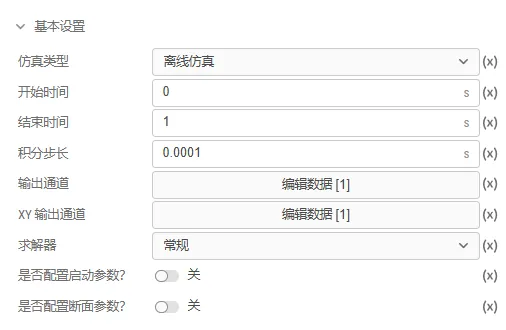
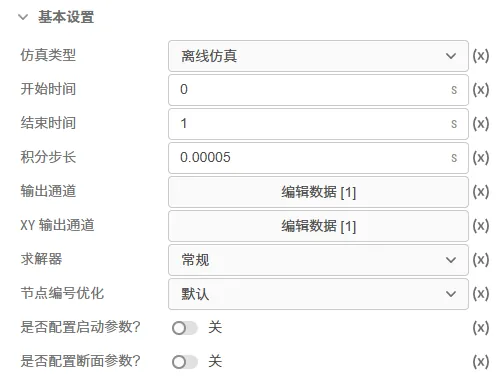
docs: 修改电磁暂态仿真配置

diff --git a/docs/documents/software/20-emtlab/50-emts/20-job-config/index.md b/docs/documents/software/20-emtlab/50-emts/20-job-config/index.md
@@ -41,12 +41,13 @@ tags:
 | 参数名 | 含义 | 说明 |
 | :--- | :--- | :--- | 
 | 仿真类型 | 电磁暂态仿真的应用类型 | 可选择**离线仿真**、**实时仿真**或**组网仿真**，默认选择**离线仿真**, 实时仿真相关内容可查看 [电磁暂态实时仿真](../../80-emts-rt/index.md) 帮助文档。**组网仿真**与**实时仿真**依赖 CloudPSS 专有硬件，公网平台暂不支持。 | 
-| 开始时间 | 电磁暂态仿真的开始时间 | 默认为 0s。在进行断面启动功能时该参数需要与断面参数进行配合选取。 |
-| 结束时间 | 电磁暂态仿真的结束时间 | 当仿真时间达到该值时仿真停止。 |
-| 积分步长 | 仿真的积分步长 | 默认为 0.00005s，即 50 微秒。积分步长越小，仿真越精确，但计算量越大，仿真耗时越大，需结合实际情况进行选取。 |
+| 开始时间 | 电磁暂态仿真的开始时间 | 单位为秒(s)，默认为 0s，仿真任务将从该设定时间开始执行时域积分。在进行[断面启动](../40-snapshot/index.md)功能时该参数需要与断面参数进行配合选取。 |
+| 结束时间 | 电磁暂态仿真的结束时间 | 单位为秒(s)，当仿真时间达到该值时仿真停止。 |
+| 积分步长 | 仿真的积分步长 | 单位为秒(s)，默认为 0.00005s，即 50 微秒。积分步长越小，仿真越精确，但计算量越大，仿真耗时越大，需结合实际情况进行选取。 |
 | 输出通道 | 电磁暂态仿真的曲线输出配置 | 配置在结果页面显示的输出曲线，包括配置分辨率（输出频率）、显示方法、通道选择等内容。更多详细内容可查看 [量测及输出系统](../30-meters-and-outputs/index.md) 帮助文档。 |
 | 求解器设置 | 求解器设置选项 | 可选择**常规**和**开关/离散事件处理增强**，默认选择**常规**。对于包含由分立开关元件构成的电力电子拓扑，可选择**开关/离散事件处理增强**，准确判断单一步长内的同步开关事件。 |
-| 是否配置启动参数 | 启动参数的开关 | 仅适用于纯交流系统，默认关闭。开启后，电磁暂态仿真可以从给定潮流断面启动（需额外配置启动参数模块）。更多启动参数说明可查看 [潮流结果写回及初始化](../../60-power-flow/30-initializing-from-power-flow-results/index.md) 帮助文档。 |
+| 节点编号优化 | 仿真拓扑解析时，节点编号方法选择 | 可选择**默认**和**稳定**，通常情况下选择**默认**。**默认**方法采用相对高效的节点编号策略，**稳定**的编号方法将在多次仿真期间提供相对固定的节点编号策略。 |
+| 是否配置启动参数 | 启动参数的开关 | 仅适用于纯交流系统，默认关闭。开启后，可以额外配置**启动参数模块**，在启动参数模块中可启用**预启动流程**，其作用是将[同步发电机](../../110-component-library/10-basic/10-electrical/40-three-phase-ac-components/120-SyncGeneratorRouter/index.md#使用说明)等交流设备的初始化放入预启动流程中，使电磁暂态仿真可以直接给定潮流断面启动，更多启动参数说明可查看 [潮流结果写回及初始化](../../60-power-flow/30-initializing-from-power-flow-results/index.md) 帮助文档。但通常情况下，建议将该选项置为关闭，并将[同步电机启动方法](../../110-component-library/10-basic/10-electrical/40-three-phase-ac-components/120-SyncGeneratorRouter/index.md#使用说明)设置为电压源转电机选项。|
 | 是否配置断面参数 | 配置断面参数的开关 | 默认关闭。开启后，电磁暂态仿真可以从给定断面开始仿真，详细说明可查看 [断面参数设置](../40-snapshot/index.md) 帮助文档。 |
 
 :::warning
@@ -63,20 +64,24 @@ tags:
 <TabItem value="set2" label="高级设置">
 电磁暂态仿真高级设置的参数如下图所示：
 
-![电磁暂态仿高级设置 =x350](./advanced-setting.png)
+![电磁暂态仿高级设置 =x450](./advanced-setting.png)
 
 | 参数名 | 含义 | 说明 |
 | :--- | :--- | :--- | 
 | 计算选项 | 选择仿真计算加速方式 | 可选择**常规**、**分网并行**、 **CPU Turbo** 或 **CPU Super Turbo**，默认选择**常规**。**常规**即利用单个 CPU 核心完成全部计算；**分网并行**即对电网进行解耦，不同分区分配在多个 CPU 核心中完成计算，利用多核 CPU 加速仿真；**CPU Turbo** 即自动利用多核 CPU 完成计算，该选项会执行自动负载均衡策略；**CPU Super Turbo** 是在 CPU Turbo 的基础上优化计算流程，进一步提升计算效率。并行计算相关配置方法可参考 [电磁暂态仿真并行加速](../../70-parallel-acceleration/index.md) 帮助文档。 |
-| 核心数 | 仿真使用的 CPU 核心数 | 计算选项选择**分网并行**、 **CPU Turbo** 或 **CPU Super Turbo** 时可设置，代表 CPU 核心数，默认值为 1。 |
+| 核心数 | 仿真使用的 CPU 核心数 | 计算选项选择**分网并行**、 **CPU Turbo** 或 **CPU Super Turbo** 时可设置，代表单次仿真所使用的 CPU 核心数，默认值为 1。 |
 | 电气核心数 | 计算电气系统时使用的 CPU 核心数 | **控制系统与电气系统并行**开关开启时可设置，设置计算电气系统的 CPU 核心数, 如果**电气核心数** = **核心数**，代表控制系统与电气系统串行。 |
-| 控制系统与电气系统并行 | 并行开关 | 默认关闭。若开启，则使能控制系统与电气系统的并行计算。 |
-| 配置负载均衡策略 | 手动负载均衡策略配置开关 | 默认关闭。若关闭，系统将采用自动负载均衡策略；若开启，需手动配置负载均衡策略表。 |
-| 是否输出分块信息 | 输出分块信息开关 | 默认开启。若开启，则在仿真过程中会额外输出分块信息。 |
-| 负载均衡策略表 | 手动负载均衡配置表 | 使用该功能时，请先执行**交直流电网拓扑分析**，获取各个分区数据，并根据各个分区计算量和预估耗时，设计负载均衡策略，将分区编号对应填入“分区-核心”映射表。也可以在交直流电网拓扑分析结果页中写入负载均衡信息，将负载均衡策略表设置为拓扑分析后的默认值。更多详细说明可查看 [交直流拓扑分析](../../90-topology-analysis/index.md) 帮助文档 |
+| 控制系统与电气系统并行 | 并行开关 | 默认关闭。若开启，则使能控制系统与电气系统的并行计算,从而提高仿真效率。需要注意的是，启用该功能后，每个仿真时步不再采用控制-电气串行的计算流程，即电气元件不再接收当前时步控制指令进行本时步计算，而是基于上个时步的控制指令计算。因此，启用该选项将带来一定误差，需谨慎使用。 |
+| 配置负载均衡策略 | 手动负载均衡策略配置开关 | 默认关闭。若关闭，系统将采用自动负载均衡策略；若开启，需手动配置负载均衡策略表。关于负载均衡策略的生成与配置可详见[负载均衡功能](../../90-topology-analysis/index.md#负载均衡功能)。 |
+| 是否输出分块信息 | 输出分块信息开关 | 默认开启。开启是否输出分块信息选项后可以输出电气节点统计、控制节点统计以及CPU分区表等信息。详见[并行计算高级参数设置](../../70-parallel-acceleration/20-advanced-param-setup/index.md#更多高级设置)。 |
+| 负载均衡策略表 | 手动负载均衡配置表 | 在开启**配置负载均衡策略**选项后，可手动配置负载均衡策略表。使用该功能时，请先执行**交直流电网拓扑分析**，获取各个分区数据，并根据各个分区计算量和预估耗时，设计负载均衡策略，将分区编号对应填入“分区-核心”映射表。也可以在交直流电网拓扑分析结果页中写入负载均衡信息，将负载均衡策略表设置为拓扑分析后的默认值。更多详细说明可查看 [交直流拓扑分析](../../90-topology-analysis/index.md) 文档。 |
 | 是否支持事件驱动 | 事件驱动开关 | 默认关闭。若开启，可在仿真过程中添加异步事件。更多事件驱动相关内容可参考 [事件驱动仿真](../../100-event-driven/index.md) 帮助文档。 |
-| 实时仿真超时时间 | 实时仿真超时设置 | 仿真类型为**实时仿真**，且实时仿真模式设置为**从模式**时可配置。假如超过**实时仿真超时时间**，数据交互的通信也没有成功建立，实时仿真任务将自动终止。更多实时仿真相关内容可查看 [电磁暂态实时仿真](../../80-emts-rt/index.md) 帮助文档  |
 | 只进行分网 | 分网选项 | 默认关闭。若开启，仿真则只进行初始化分网，不进行后续仿真。主要用于交直流拓扑分析。更多详细说明可查看 [交直流拓扑分析](../../90-topology-analysis/index.md) 帮助文档 |
+| 使用清翼编译器 | 是否使用清翼编译器 | 该功能仅在部分私有化部署平台可用，公网平台暂不可用。默认关闭。启用该功能后，在运行电磁暂态仿真时将执行清翼编译器（Tsing-E）仿真内核，即先通过自动生成运行代码并编译为可执行文件，再执行编译化的电磁暂态仿真程序，可显著提升仿真效率。 |
+| 是否支持安控策略 | 选择是否启用安控策略 | 启用后，将执行考虑安控策略的电磁暂态仿真程序，支持的模块包括[安控元件库](../../110-component-library/60-security-control-module/index.md)。具体使用案例可查看[安全稳定控制策略案例](../../../../../cases/10-emtlab/10-typical-cases/140-security-and-stability-control-strategies/10-ieee-39-ssc-demo/index.md) |
+| 是否启用全局CDA | 选择是否在仿真过程中保持CDA算法 | 启用后，将在仿真的每个时步均采用[CDA算法](../10-fundamentals/index.md)，即半步长后向欧拉算法。 |
+| 元件功率量测方法 | 选择三相交流元件的功率量测方法 | 用于切换三相交流功率的计算方法，可在**PLL**和**瞬时功率**选项中选择，默认选择**PLL**。当选择**PLL**时，通过采用锁相环分别获取电压、电流信号的瞬时相角，并采用 $ P = \lvert {\tilde V} \rvert\lvert {\tilde I} \rvert\cos \left( {{\theta _V} - {\theta _I}} \right),  Q = \lvert {\tilde V} \rvert\lvert {\tilde I} \rvert\sin \left( {{\theta _V} - {\theta _I}} \right) $ 的方式求解。当选择**瞬时功率**时，将采用赤木泰文的瞬时功率理论[^瞬时功率理论]求解交流功率。  |
+
 </TabItem>
 
 <TabItem value="set3" label="运行设置">
@@ -89,7 +94,23 @@ tags:
 | 任务队列 | 任务运行使用的队列 | 默认设置为**默认队列**。如网内存在多台 CloudPSS 设备和多类设备，可自行选择相应的任务队列。 |
 | 计算资源 | 任务运行使用的计算资源 | 默认设置为**1 逻辑核心**。此处的核心数应大于等于**高级设置**中的**核心数**。 |
 | 优先级 | 任务运行的优先级 | 默认设置为 0。优先级仅在 **计算资源** 不足，任务需要排队等待时使用。任务等待时，由 **优先级** 和 **队列参数** 共同计算出该任务在队列中位置，此处的 **优先级** 设置越高，任务在队列中的位置越靠前。更多 **队列参数** 详见 [队列管理](../../../50-user-center/50-system-administrator-settings/20-queue-management/index.md#新建队列) 帮助页。|
-| 调试参数 | 任务调试时使用的调试参数 | 默认为空 |
+| 调试参数 | 任务调试时使用的调试参数 | 默认为空，可用于输入额外的调试参数。 |
+</TabItem>
+
+<TabItem value="set4" label="实时仿真输出设置">
+实时仿真输出设置仅在**仿真类型**选择**实时仿真**时才可配置，其参数如下图所示：
+
+![实时仿真输出设置 =x200](./rt-output-setting.png)
+
+| 参数名 | 含义 | 说明 |
+| :--- | :--- | :--- | 
+| 模式 | 设置为**主模式**或**从模式** | 当选为**主模式**时，CloudPSS-RT 将会以设置的仿真积分步长为间隔，持续发送和接收数据，并且不会校验接收到的数据；当选为**从模式**时，CloudPSS-RT 将会以设置的仿真积分步长为间隔接收数据，并校验数据的同步帧，若同步帧匹配，则发送数据。具体参考[硬件在环仿真](../../80-emts-rt/10-hardware-in-the-loop/index.md#主从式同步机制) 文档。 |
+| 数值型输出通道 | 配置数值型输出通道 | 实时仿真结果以数值的形式显示，可设置分组名称、刷新频率、小数位数，并选择待观测的输出通道。同一个分组中可选择多个输出通道，各通道的结果将形成一个表格并在结果页面显示。每一行视为一个分组，可添加多个分组。详情请参考[实时仿真信号监视器](../../../../software-tools/20-signal-monitor/index.md#数值型输出通道)文档。  |
+| 曲线型输出通道 | 配置曲线型输出通道 | 实时仿真结果将以曲线的形式显示，可设置分组名称、窗口类型、窗口宽度，并选择待观测的输出通道。同一个分组中可选择多个输出通道。可添加多个分组。详情请参考[实时仿真信号监视器](../../../../software-tools/20-signal-monitor/index.md#曲线型输出通道)文档。  |
+| 曲线型刷新间隔 | 配置曲线型刷新间隔 | 单位为秒 (s)，输入曲线型输出通道的刷新时间间隔，默认为 0.02s，即每 0.02s 刷新一帧，每一帧包含 0.02s 的数据。详情请参考[实时仿真信号监视器](../../../../software-tools/20-signal-monitor/index.md#曲线刷新间隔)文档。  |
+| 曲线型缓存帧数 | 配置曲线型缓存帧数 | 曲线型输出通道的缓存帧数，默认为 200 帧。增加缓存帧数可以提升曲线刷新流畅度，但同时会增加缓存数据量。如遇页面卡顿，可减少曲线缓存帧数。建议低性能配置的用户终端使用默认或更少的曲线缓存帧数。详情请参考[实时仿真信号监视器](../../../../software-tools/20-signal-monitor/index.md#曲线缓存帧数)文档。  |
+| 实时仿真超时时间 | 实时仿真超时设置 | 仿真类型为**实时仿真**，且实时仿真模式设置为**从模式**时可配置。假如超过**实时仿真超时时间**，数据交互的通信也没有成功建立，实时仿真任务将自动终止。更多实时仿真相关内容可查看 [电磁暂态实时仿真](../../80-emts-rt/index.md) 帮助文档。  |
+
 </TabItem>
 
 </Tabs>
@@ -134,6 +155,13 @@ import TabItem from '@theme/TabItem';
     + 电压源型变流器详细模型：一般在 10μs 以下，需要根据开关频率调整。
     + 电压源型变流器平均模型：典型值 50μs，建议选择范围：10 - 100μs。
 
-
+电磁暂态仿真的开始时间设置不为 0 时，仿真结果不对？
+:
+    需要注意系统中[阶跃发生器](../../110-component-library/10-basic/20-control/80-control-signal-generators/80-_newStepGen/index.md)、[三相交流电压源](../../110-component-library/10-basic/10-electrical/40-three-phase-ac-components/90-_newACVoltageSource_3p/index.md)等元件采用的时间是当前的仿真时刻。
+    
+    例如，当设置电磁暂态仿真的开始时间为 2s，同时系统中[同步发电机](../../110-component-library/10-basic/10-electrical/40-three-phase-ac-components/120-SyncGeneratorRouter/index.md)采用电压源转电机的启动方法，设置了 0.06s 的爬坡时间（Ramping Time），且对应的S2M信号由[阶跃发生器](../../110-component-library/10-basic/20-control/80-control-signal-generators/80-_newStepGen/index.md)提供，设置为 1s 阶跃。那么当开始仿真后，系统将从2s开始计算，会跳过电压源的爬坡时间及电机的启动过程，造成仿真结果的不准确。
+    
+    因此，当设置电磁暂态仿真的开始时间设置不为 0 时，需要核对系统中各元件与时间相关的参数，确保各过程正确响应。
 
 [^同步开关]:张芮,宋炎侃,于智同,等.基于同步开关预判的半桥型VSC快速电磁暂态建模方法[J].电力系统自动化,2021,45(20):148-156.
+[^瞬时功率理论]:日 赤木泰文,巴西 Watanabe Edson Hirokazu,巴西 Aredes Mauricio.瞬时功率理论及其在电力调节中的应用[M].机械工业出版社,2009.
